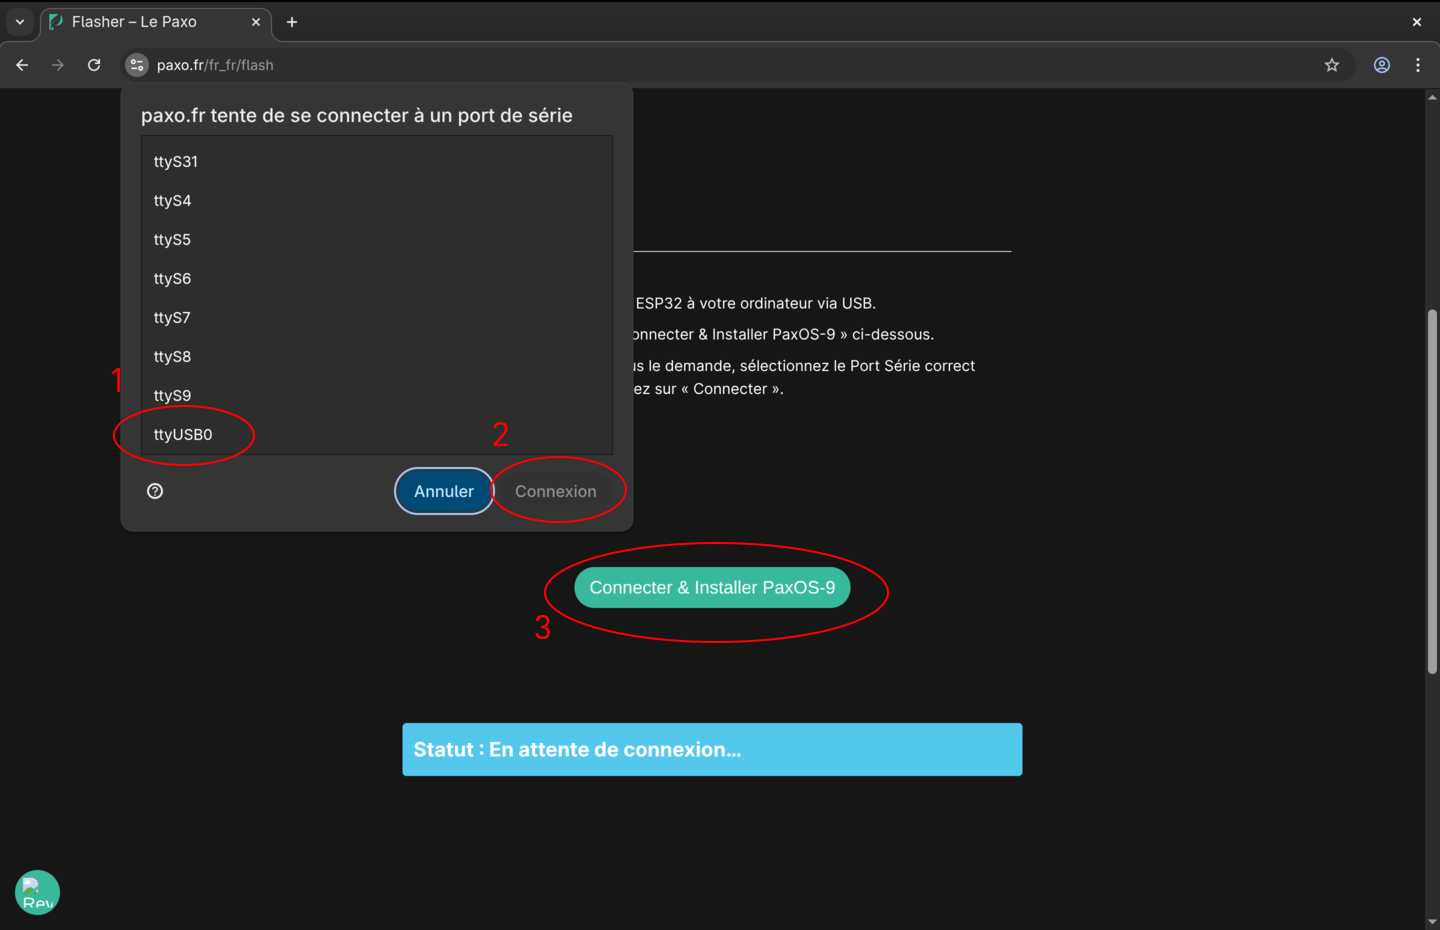
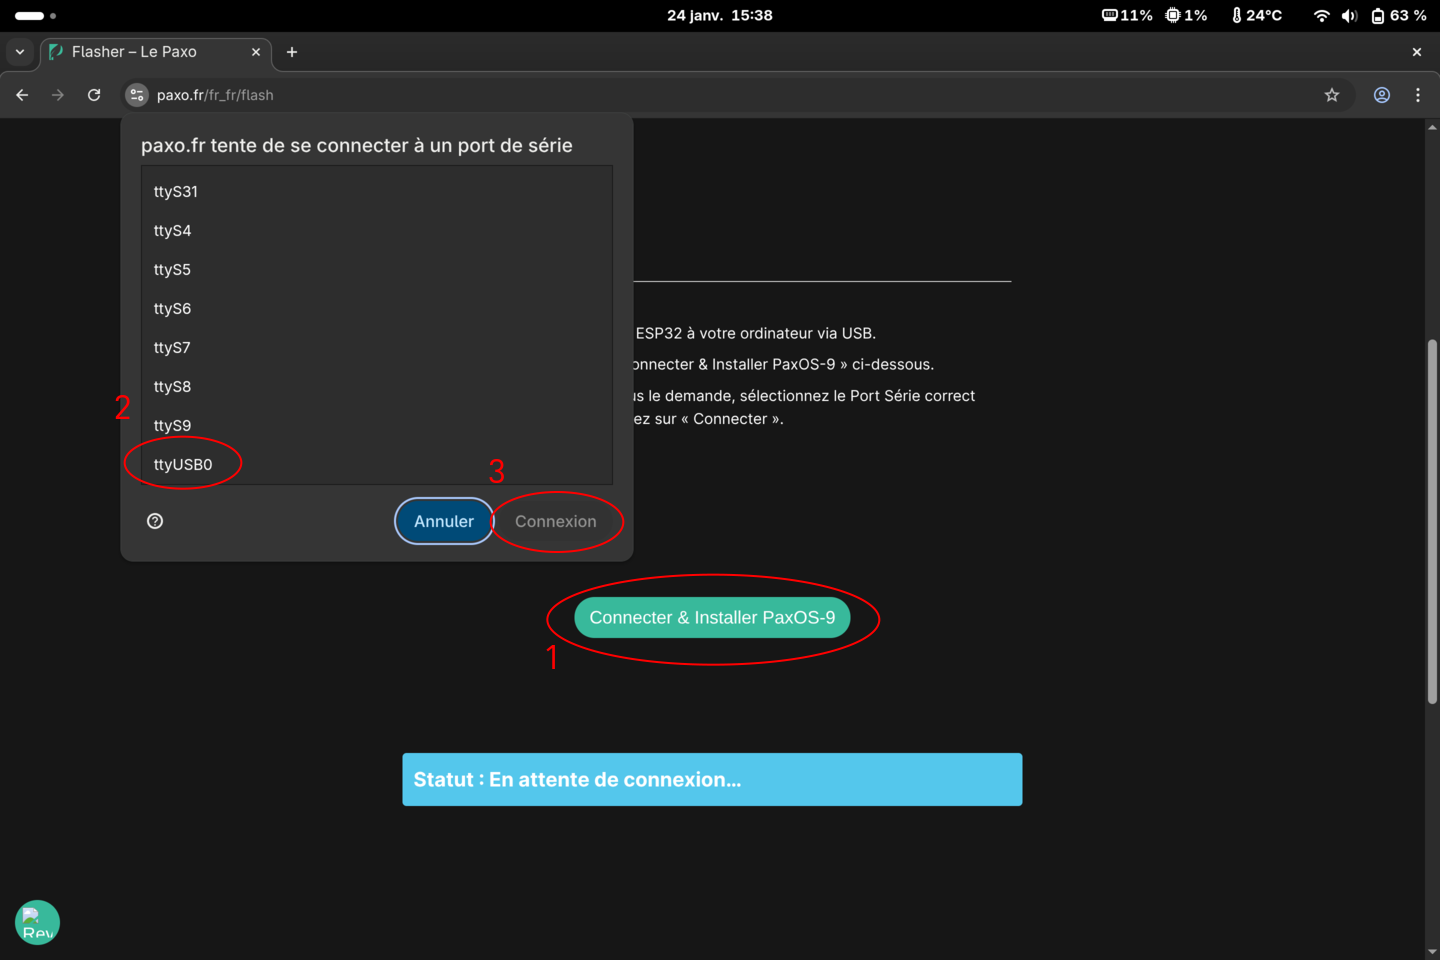
Improve a step explanation

diff --git a/i18n/fr/docusaurus-plugin-content-docs/current/installation/2-firmware.md b/i18n/fr/docusaurus-plugin-content-docs/current/installation/2-firmware.md
@@ -23,15 +23,17 @@ Instructions pour installer le firmware sur l'ESP.
 ### Sur le navigateur
 
 Se rendre sur le [site du Paxo](https://www.paxo.fr/flash).  
-Dans le menu en haut à gauche, cliquer sur **"Flasher"**.
+Dans le menu en haut à droite, cliquer sur **"Flasher"**.
 ![Screenshot1](/img/screenshots/Firmware-1.png)
 
 ### Brancher le paxophone
 
-Brancher le Paxophone sous tension au port USB de votre ordinateur.  
-Cliquer sur le bouton **"Connecter & installer PaxOS-9"**.  
-Choisir le port sur lequel est branché le Paxophone (contient généralement "USB" dans son nom).  
-Cliquer sur le bouton **"Connexion"**.
+Brancher le Paxophone sous tension au port USB de votre ordinateur.
+
+1. Cliquer sur le bouton **"Connecter & installer PaxOS-9"**.
+2. Choisir le port sur lequel est branché le Paxophone (contient généralement "USB" dans son nom).
+3. Cliquer sur le bouton **"Connexion"**.
+
 ![Screenshot4](/img/screenshots/Firmware-4.png)
 
 ### Lancer l'installation
@@ -40,7 +42,7 @@ Si le Paxophone est bien reconnu sur le port, une fenêtre proposant l'installat
 Cliquer sur **"Install PaxOS9 Alpha"**.
 ![Screenshot5](/img/screenshots/Firmware-5.png)
 
-Une fenêtre vous propose d'effacer votre appareil.  
+Une fenêtre propose d'effacer l'appareil.  
 Laisser la case décochée et cliquer sur **"Next"**.
 ![Screenshot6](/img/screenshots/Firmware-6.png)
 
